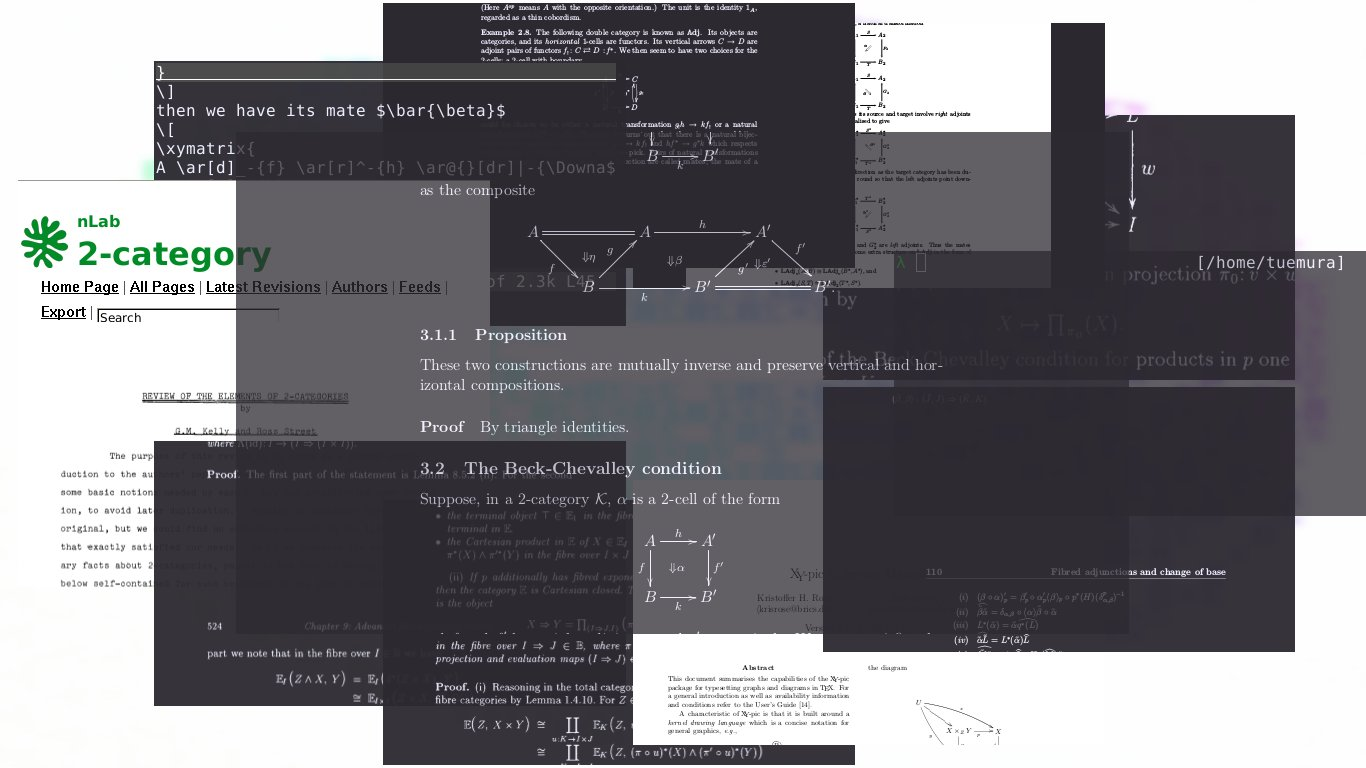
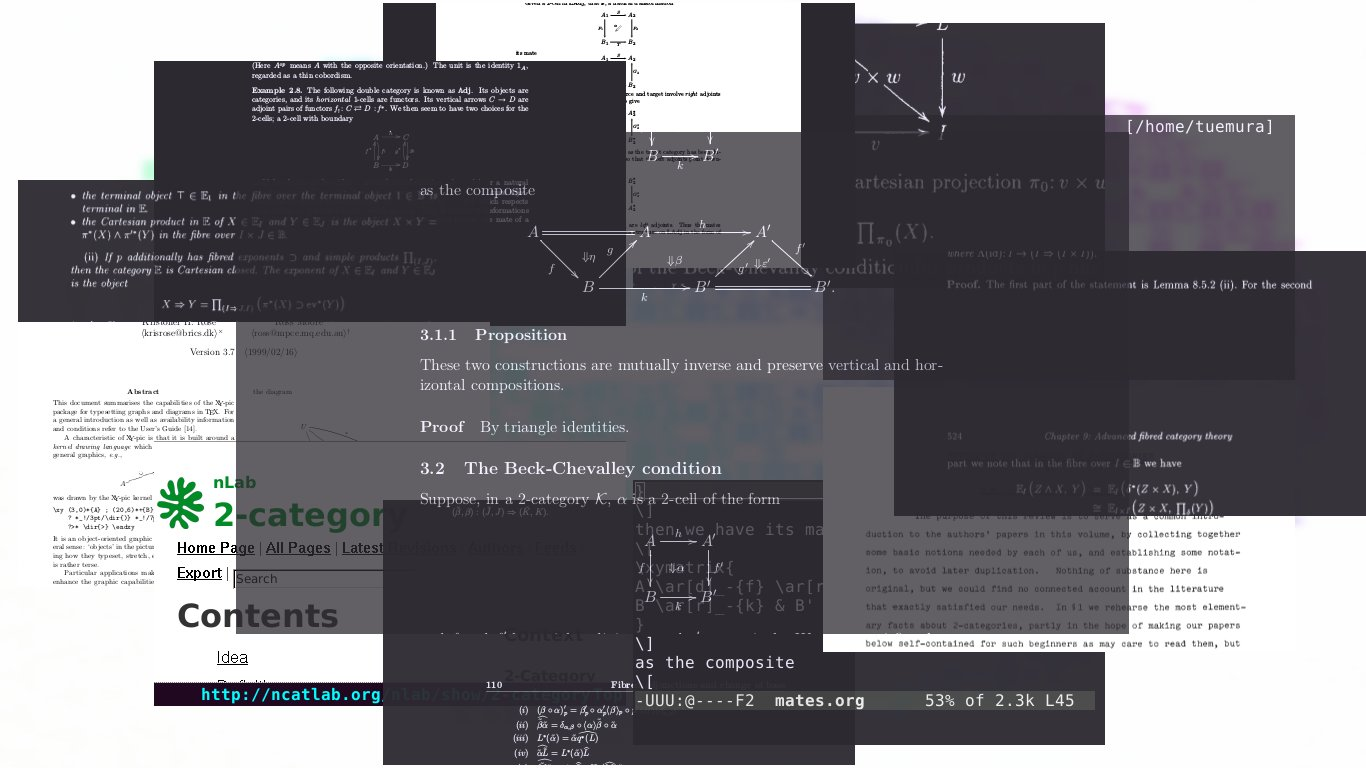
add screenshot of hints

diff --git a/README.md b/README.md
@@ -50,3 +50,5 @@ Screenshots
 -----------
 
 ![circle+transparent](images/circle.jpg)
+
+![hints](images/hints.jpg)
